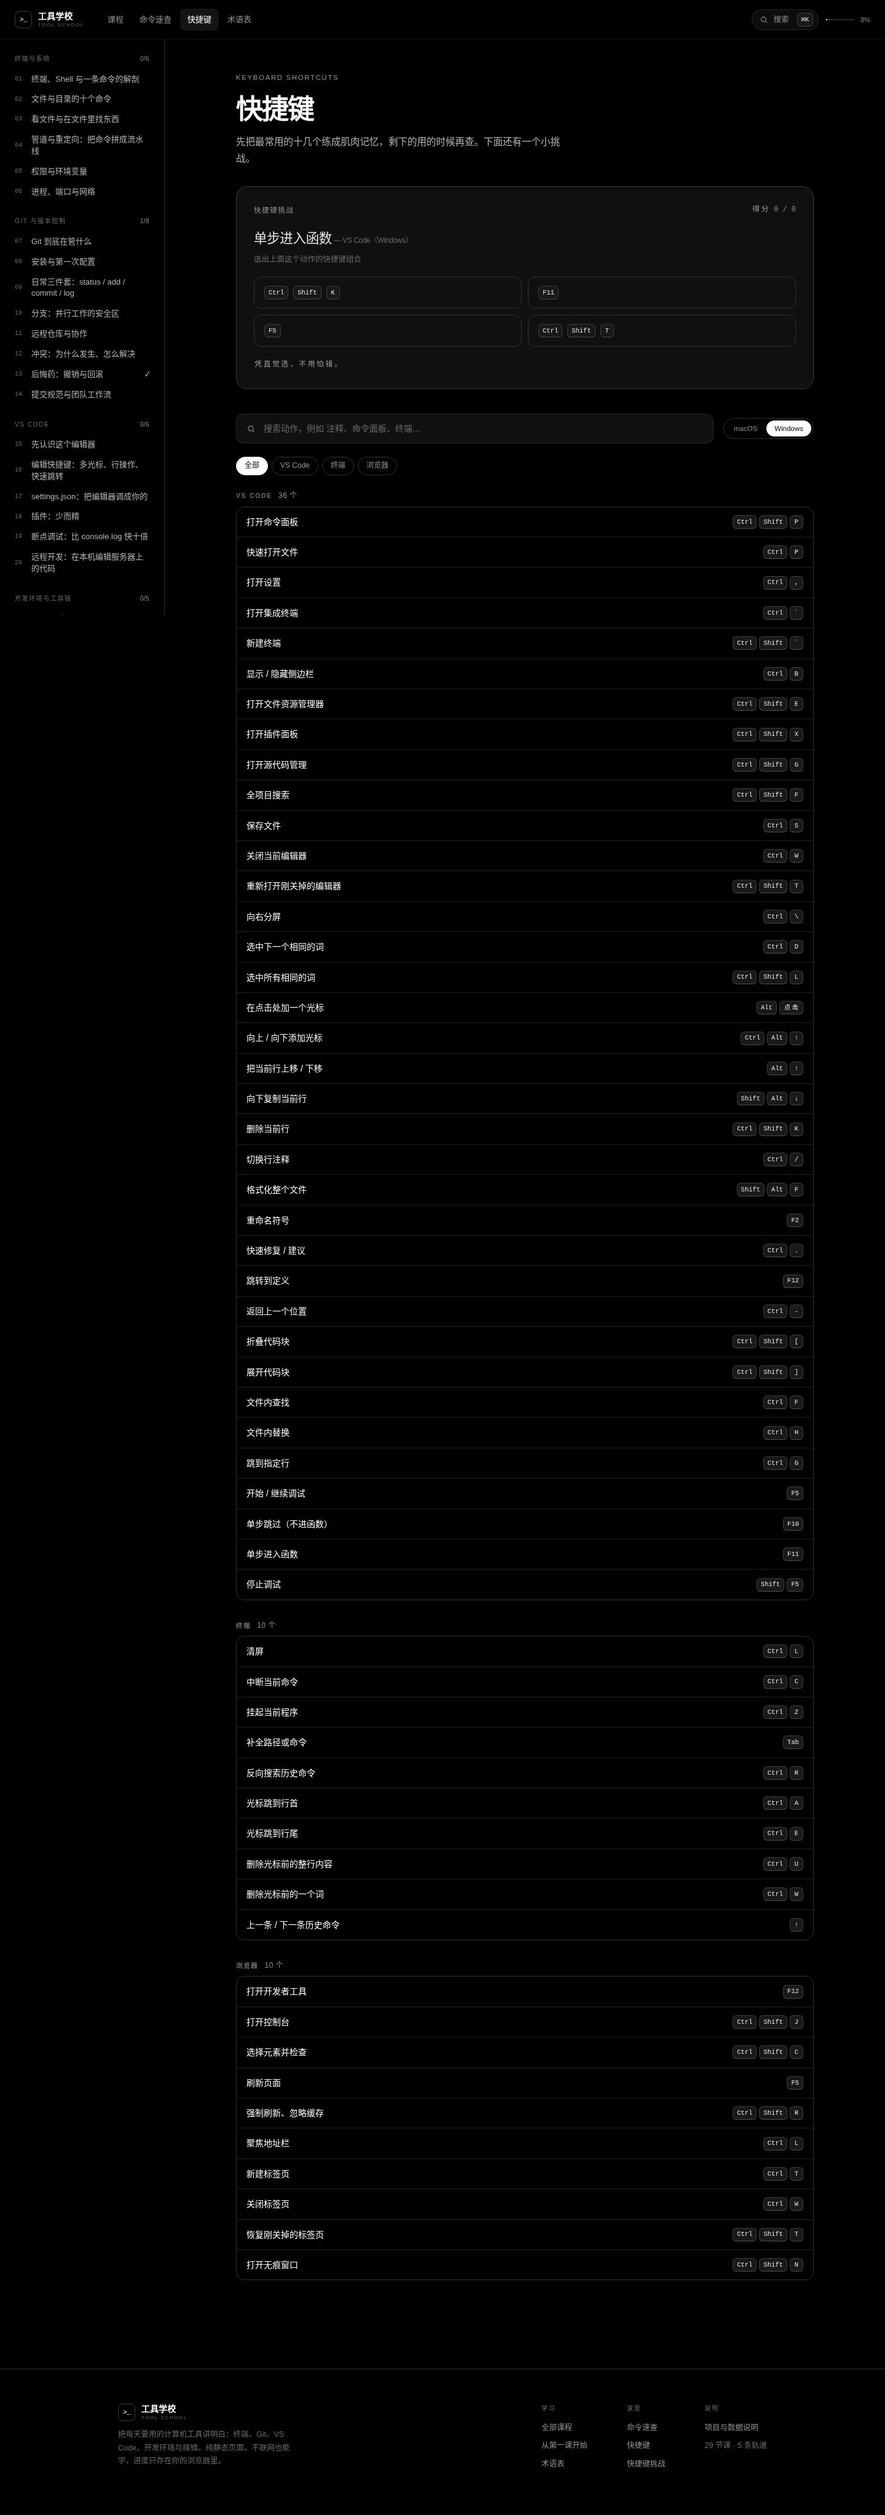
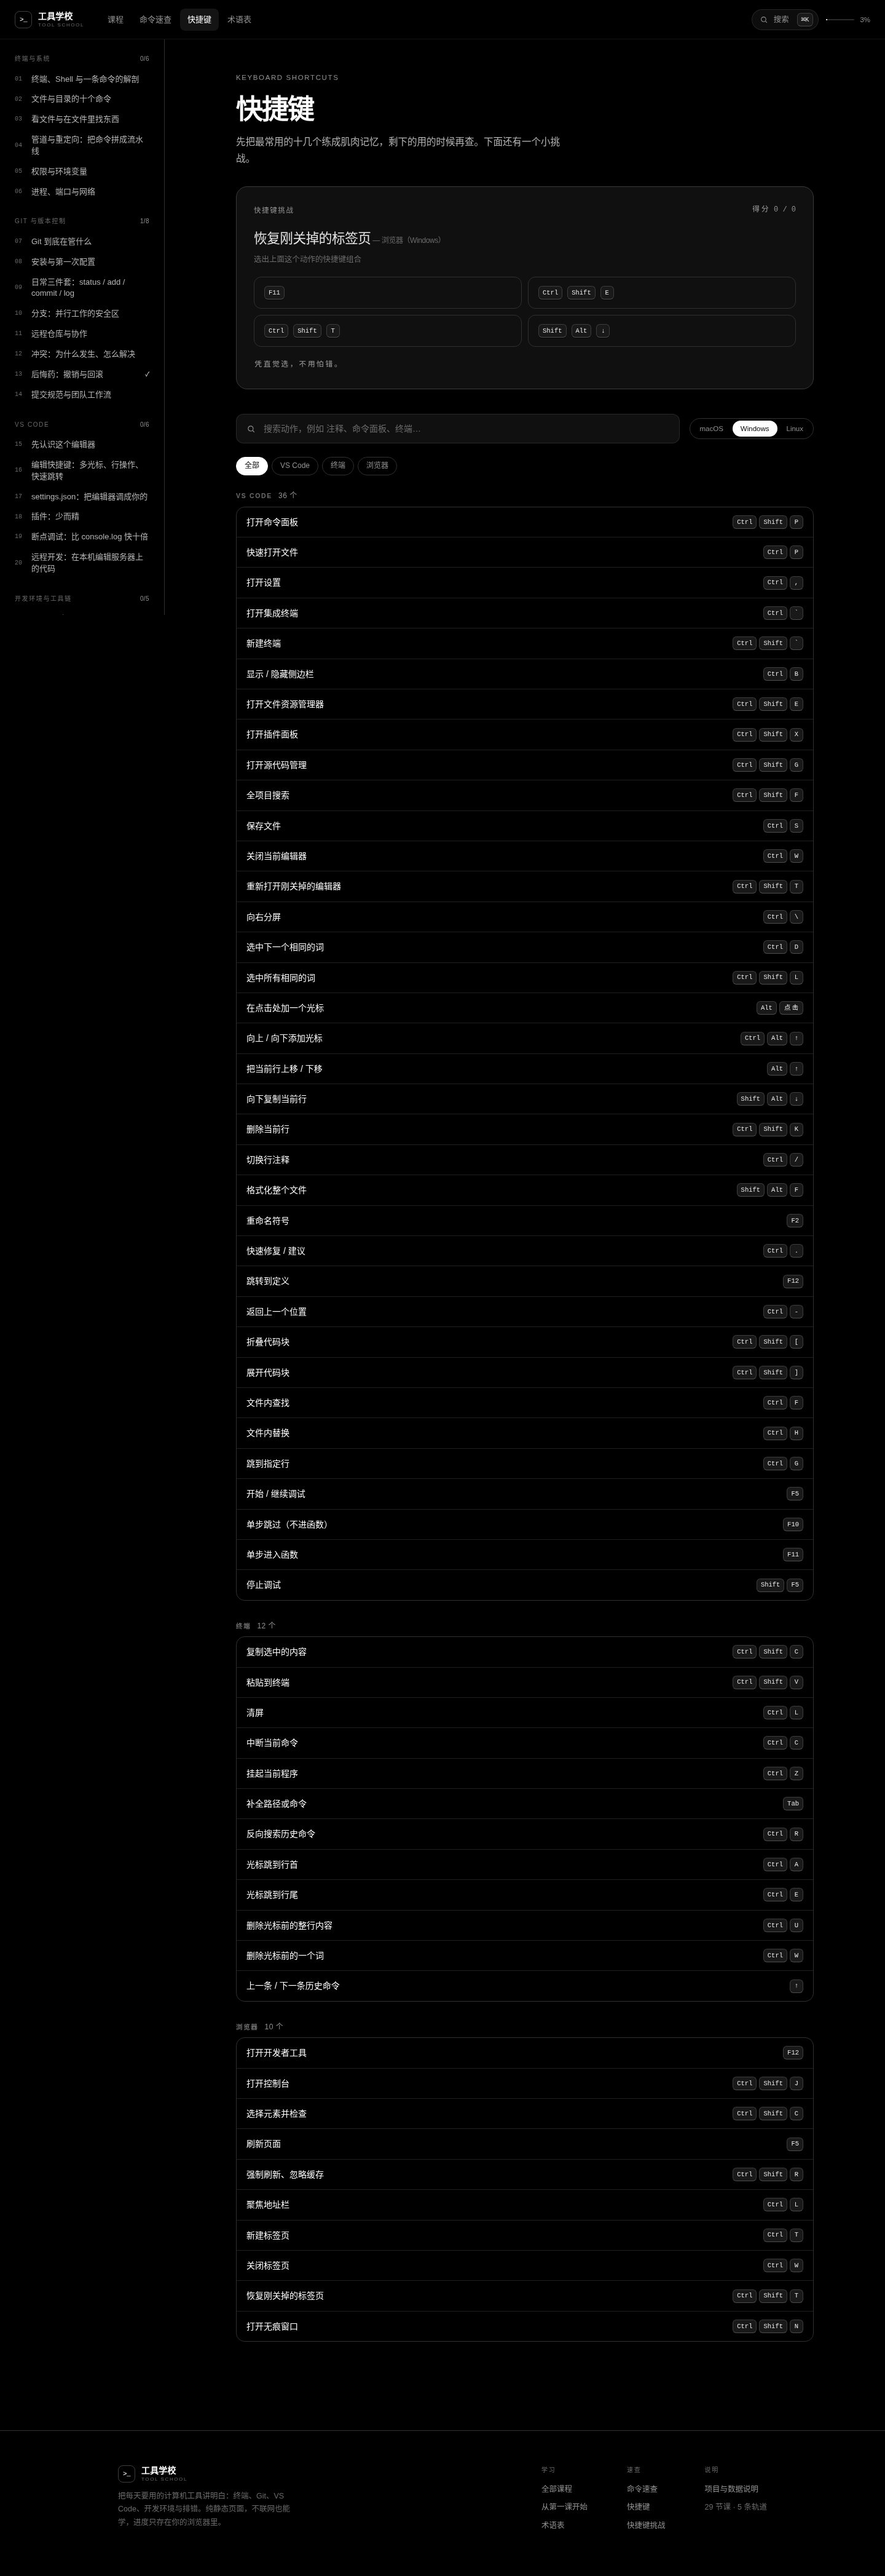
快捷键支持 Linux 平台
- 新增长按平台切换：macOS / Windows / Linux，Linux 自动识别
- 数据模型支持可选 linux 字段，缺省时沿用 Windows 组合
- 补充终端复制/粘贴两条跨平台差异的快捷键（58 条）
- 验证新增 Linux 断言，共 34 项通过

diff --git a/assets/js/app.js b/assets/js/app.js
@@ -120,10 +120,20 @@
   function detectPlatform() {
     var p = '';
     try { p = (navigator.userAgentData && navigator.userAgentData.platform) || navigator.platform || ''; } catch (err) {}
-    return /mac|iphone|ipad|ipod/i.test(p) ? 'mac' : 'win';
+    if (/mac|iphone|ipad|ipod/i.test(p)) return 'mac';
+    if (/linux|android|ubuntu|fedora|debian/i.test(p)) return 'linux';
+    return 'win';
   }
   function platform() { return state.platform || detectPlatform(); }
-  function platformLabel() { return platform() === 'mac' ? 'macOS' : 'Windows'; }
+  function platformLabel() {
+    return { mac: 'macOS', win: 'Windows', linux: 'Linux' }[platform()] || 'Windows';
+  }
+  function keysOf(shortcut, p) {
+    if (!shortcut) return [];
+    if (p === 'mac') return shortcut.mac || [];
+    if (p === 'linux') return shortcut.linux || shortcut.win || [];
+    return shortcut.win || [];
+  }
 
   /* ------------------------------------------------------------ 入场动画 */
   var REVEAL = (function () {
@@ -690,7 +700,8 @@
       '<input id="scSearch" type="text" placeholder="搜索动作，例如 注释、命令面板、终端…" autocomplete="off" spellcheck="false"></div>');
     out.push('<div class="platform-toggle" id="platformToggle">' +
       '<button type="button" data-platform="mac" class="' + (platform() === 'mac' ? 'is-active' : '') + '">macOS</button>' +
-      '<button type="button" data-platform="win" class="' + (platform() === 'win' ? 'is-active' : '') + '">Windows</button></div>');
+      '<button type="button" data-platform="win" class="' + (platform() === 'win' ? 'is-active' : '') + '">Windows</button>' +
+      '<button type="button" data-platform="linux" class="' + (platform() === 'linux' ? 'is-active' : '') + '">Linux</button></div>');
     out.push('</div>');
 
     out.push('<div class="filters reveal" id="scFilters"><button class="filter is-active" type="button" data-cat="all">全部</button>');
@@ -707,7 +718,7 @@
         var search = ((s.action || '') + ' ' + (s.cat || '') + ' ' + app).toLowerCase();
         out.push('<div class="cmd-row cmd-row--shortcut" data-cat="' + esc(app) + '" data-search="' + esc(search) + '">' +
           '<div class="cmd-row__desc">' + esc(s.action) + '</div>' +
-          '<div class="cmd-row__keys">' + keysHtml(platform() === 'mac' ? s.mac : s.win) + '</div></div>');
+          '<div class="cmd-row__keys">' + keysHtml(keysOf(s, platform())) + '</div></div>');
       });
       out.push('</div></section>');
     });
@@ -765,19 +776,19 @@
   }
   function newTrainerRound() {
     var pool = PS.shortcuts.filter(function (s) {
-      return s.mac && s.mac.length && s.win && s.win.length;
+      return s.mac && s.mac.length && s.win && s.win.length && keysOf(s, platform()).length;
     });
     if (!pool.length) return;
     var p = platform();
     var q0 = pool[Math.floor(Math.random() * pool.length)];
     var seen = {};
-    seen[q0[p].join('+')] = true;
+    seen[keysOf(q0, p).join('+')] = true;
     var opts = [q0];
     var guard = 0;
     while (opts.length < 4 && guard < 300) {
       guard += 1;
       var cand = pool[Math.floor(Math.random() * pool.length)];
-      var k = cand[p].join('+');
+      var k = keysOf(cand, p).join('+');
       if (seen[k]) continue;
       seen[k] = true;
       opts.push(cand);
@@ -794,7 +805,7 @@
     if (!body || !trainer.q) return;
     var p = platform();
     var opts = trainer.opts.map(function (o, i) {
-      return '<button class="trainer__opt" type="button" data-tr="' + i + '">' + keysHtml(o[p]) + '</button>';
+      return '<button class="trainer__opt" type="button" data-tr="' + i + '">' + keysHtml(keysOf(o, p)) + '</button>';
     }).join('');
     body.innerHTML = '<p class="trainer__q">' + esc(trainer.q.action) +
       '<span class="dim" style="font-size:12px;font-weight:400"> — ' + esc(trainer.q.app) + '（' + platformLabel() + '）</span></p>' +
@@ -817,7 +828,7 @@
     var score = document.getElementById('trScore');
     if (score) score.textContent = '得分 ' + trainer.correct + ' / ' + trainer.total;
     var hint = document.getElementById('trHint');
-    if (hint) hint.textContent = correct ? '正确。' : '正确答案是 ' + trainer.opts[trainer.correctIdx][platform()].join(' + ');
+    if (hint) hint.textContent = correct ? '正确。' : '正确答案是 ' + keysOf(trainer.opts[trainer.correctIdx], platform()).join(' + ');
     var next = document.getElementById('trNext');
     if (next) next.hidden = false;
   }

diff --git a/assets/js/data-refs.js b/assets/js/data-refs.js
@@ -193,6 +193,8 @@ window.PS.shortcuts = [
   { app: 'VS Code', cat: '调试', action: '停止调试', mac: ['⇧', 'F5'], win: ['Shift', 'F5'] },
 
   /* ---------------- 终端 ---------------- */
+  { app: '终端', cat: '操作', action: '复制选中的内容', mac: ['⌘', 'C'], win: ['Ctrl', 'Shift', 'C'], linux: ['Ctrl', 'Shift', 'C'] },
+  { app: '终端', cat: '操作', action: '粘贴到终端', mac: ['⌘', 'V'], win: ['Ctrl', 'Shift', 'V'], linux: ['Ctrl', 'Shift', 'V'] },
   { app: '终端', cat: '操作', action: '清屏', mac: ['⌘', 'K'], win: ['Ctrl', 'L'] },
   { app: '终端', cat: '操作', action: '中断当前命令', mac: ['⌃', 'C'], win: ['Ctrl', 'C'] },
   { app: '终端', cat: '操作', action: '挂起当前程序', mac: ['⌃', 'Z'], win: ['Ctrl', 'Z'] },

diff --git a/SCHEMA.md b/SCHEMA.md
@@ -42,7 +42,7 @@ window.PS.lessons.push(
 5. `{ type: 'table', title?: string, head: string[], rows: string[][] }` 表格，每行长度等于表头
 6. `{ type: 'code', title?: string, lang: 'bash' | 'json' | 'text' | 'diff', text: string, note?: string }` 可复制代码块
 7. `{ type: 'terminal', title?: string, command: string, output?: string, note?: string }` 终端块：command 是用 `$` 提示符展示并复制的命令，output 是模拟输出（可选，纯文本，保留换行）
-8. `{ type: 'shortcuts', title?: string, items: { action: string, mac: string[], win: string[], note?: string }[] }` 快捷键表；mac/win 是按键数组，如 `['⌘','⇧','P']`、`['Ctrl','Shift','P']`
+8. `{ type: 'shortcuts', title?: string, items: { action: string, mac: string[], win: string[], linux?: string[], note?: string }[] }` 快捷键表；mac/win 是按键数组，如 `['⌘','⇧','P']`、`['Ctrl','Shift','P']`；linux 可选，省略时按 win 显示
 9. `{ type: 'compare', title?: string, left: { label: string, items: string[] }, right: { label: string, items: string[] }, note?: string }` 左错右对（或左旧右新）对照
 
 html / text / output 字段内允许的标签仅有：`<p>` `<strong>` `<em>` `<code>` `<span class="hl">` `<ul><li>` `<br>`

diff --git a/README.md b/README.md
@@ -5,7 +5,7 @@
 ![首页](screenshots/01-home.jpg)
 
 - 29 节课，5 条学习轨道，每节 10 到 18 分钟
-- 134 条常用命令、56 个快捷键、28 条术语，随时可查
+- 134 条常用命令、58 个快捷键、28 条术语，随时可查
 - 每节课都有「动手练一练」，勾选后保存在本地
 - 每节课 3 道小测验，全部答对自动标记完成
 - ⌘K / Ctrl+K 全局搜索课程、命令和页面
@@ -82,7 +82,7 @@
 
 ![命令速查](screenshots/04-commands.jpg)
 
-**快捷键挑战**（`#/shortcuts`）：56 个快捷键分 macOS / Windows 两套展示，下面是一个随机出题的训练器——从四个组合里选出正确的那个，答完立刻看得分。
+**快捷键挑战**（`#/shortcuts`）：58 个快捷键分 macOS / Windows / Linux 三套展示，下面是一个随机出题的训练器——从四个组合里选出正确的那个，答完立刻看得分。
 
 ![快捷键](screenshots/05-shortcuts.jpg)
 
